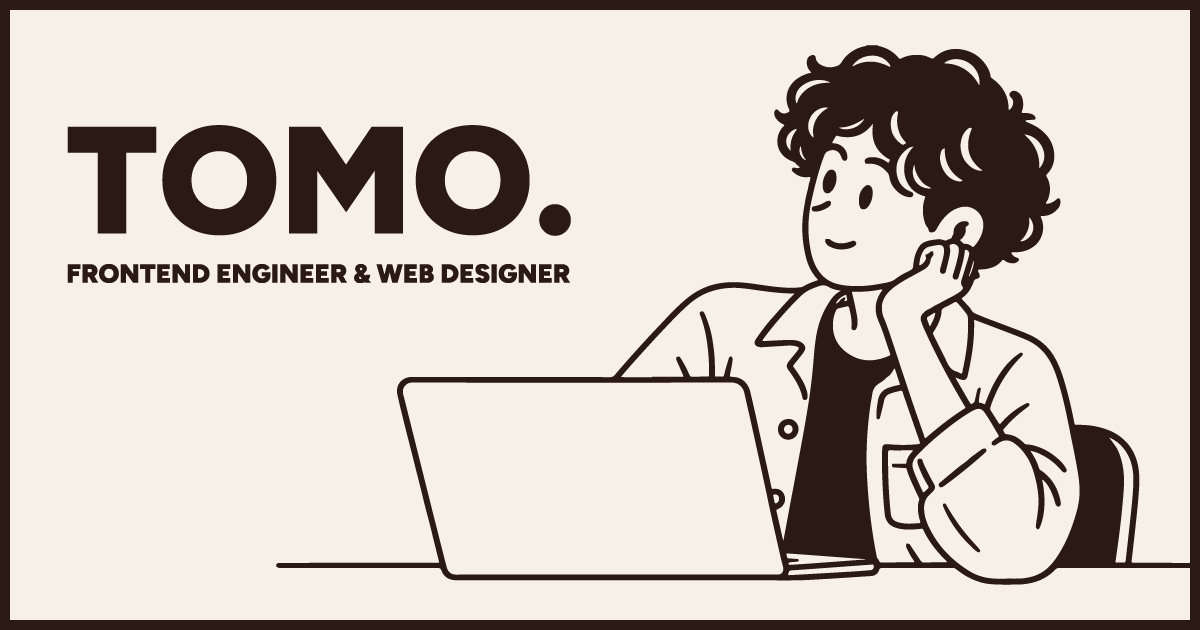
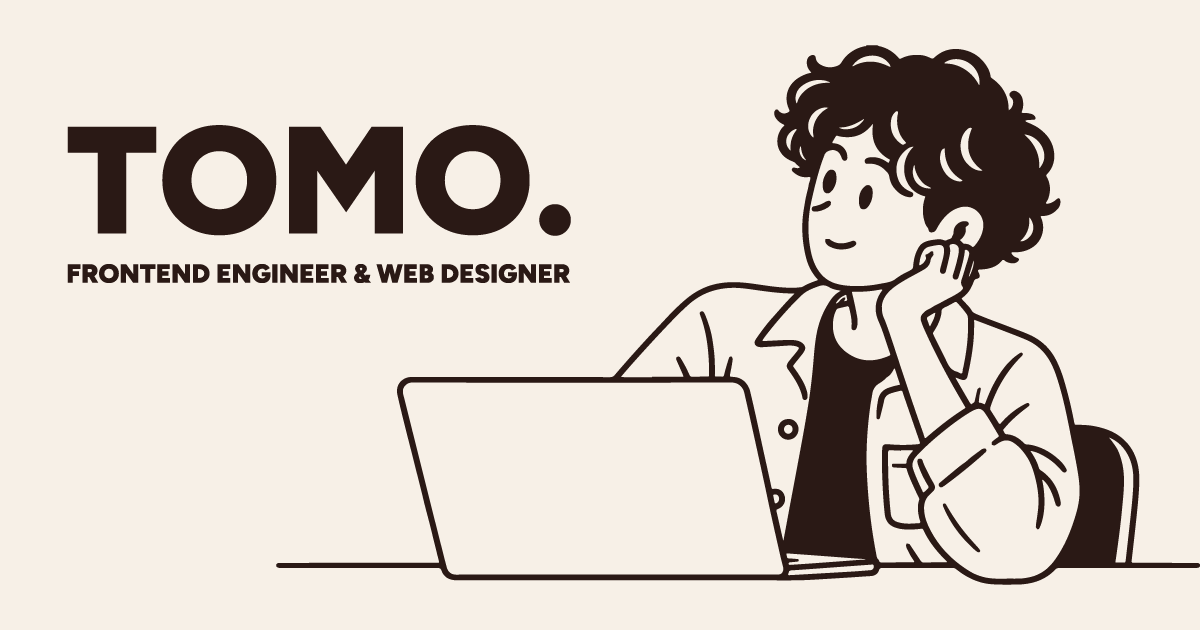
feature/design_2　ogp修正、絵文字許可

Changed region(s): [[0.0, 0.0, 1.0, 1.0]]

diff --git a/tests/og-image.test.ts b/tests/og-image.test.ts
@@ -1,10 +1,10 @@
 import { describe, expect, test } from "bun:test";
-import { getBlogOgImagePath, layoutOgTitle } from "../src/features/blog/og-image";
+import { BLOG_OG_RENDERER_VERSION, getBlogOgImagePath, layoutOgTitle } from "../src/features/blog/og-image";
 
 describe("article social images", () => {
   test("article updates change the image URL and path characters are encoded", () => {
     expect(getBlogOgImagePath("a/b", "2026-09-15T00:00:00Z"))
-      .toBe("/og/blog/a%2Fb?v=2026-09-15T00%3A00%3A00Z");
+      .toBe(`/og/blog/a%2Fb?v=2026-09-15T00%3A00%3A00Z&renderer=${BLOG_OG_RENDERER_VERSION}`);
     expect(getBlogOgImagePath("article", "first"))
       .not.toBe(getBlogOgImagePath("article", "second"));
   });
@@ -14,6 +14,15 @@ describe("article social images", () => {
     expect(lines).toHaveLength(2);
     expect(lines.some((line) => line.includes("タグ"))).toBe(true);
     expect(lines.some((line) => line.includes("デザイン"))).toBe(true);
+  });
+
+  test("emoji and joined emoji survive title wrapping", () => {
+    const title = "公開しました🎊 開発者👩🏽💻からのお知らせ🇯🇵 ❤";
+    const { lines } = layoutOgTitle(title);
+    expect(lines.join("").replaceAll(" ", "")).toBe(title.replaceAll(" ", ""));
+    for (const emoji of ["🎊", "👩🏽💻", "🇯🇵", "❤"]) {
+      expect(lines.some((line) => line.includes(emoji))).toBe(true);
+    }
   });
 
   test.each([

diff --git a/src/routes/(public)/og.blog.$slug.ts b/src/routes/(public)/og.blog.$slug.ts
@@ -2,6 +2,7 @@ import { createFileRoute } from "@tanstack/react-router";
 import { findMicroCmsPostSummaryById } from "@/features/blog/server/microcms.repository.server";
 import { renderBlogOgImage } from "@/features/blog/server/og-image.server";
 import { isBlogDataError } from "@/features/blog/server/blog-data.error";
+import { BLOG_OG_RENDERER_VERSION } from "@/features/blog/og-image";
 
 export const Route = createFileRoute("/(public)/og/blog/$slug")({
   server: {
@@ -13,7 +14,7 @@ export const Route = createFileRoute("/(public)/og/blog/$slug")({
           const post = await findMicroCmsPostSummaryById(params.slug);
           if (!post?.publishedAt) return new Response("Not found", { status: 404, headers: errorHeaders });
           const cacheUrl = new URL(request.url);
-          cacheUrl.search = new URLSearchParams({ v: post.updatedAt, renderer: "3" }).toString();
+          cacheUrl.search = new URLSearchParams({ v: post.updatedAt, renderer: BLOG_OG_RENDERER_VERSION }).toString();
           const key = new Request(cacheUrl);
           const cache = await caches.open("blog-og-images-v1");
           const cached = await cache.match(key);

diff --git a/src/features/blog/og-image.ts b/src/features/blog/og-image.ts
@@ -1,8 +1,9 @@
 export const BLOG_OG_WIDTH = 1200;
 export const BLOG_OG_HEIGHT = 630;
+export const BLOG_OG_RENDERER_VERSION = "4";
 
 export function getBlogOgImagePath(slug: string, updatedAt: string): string {
-  return `/og/blog/${encodeURIComponent(slug)}?v=${encodeURIComponent(updatedAt)}`;
+  return `/og/blog/${encodeURIComponent(slug)}?v=${encodeURIComponent(updatedAt)}&renderer=${BLOG_OG_RENDERER_VERSION}`;
 }
 
 // Conservative glyph widths leave room for proportional Latin fonts and punctuation.

diff --git a/src/features/blog/server/og-image.server.tsx b/src/features/blog/server/og-image.server.tsx
@@ -47,6 +47,7 @@ export async function renderBlogOgImage(title: string, request: Request): Promis
     {
       width: BLOG_OG_WIDTH,
       height: BLOG_OG_HEIGHT,
+      emoji: "twemoji",
       fonts: [
         { name: "Figtree", data: latin, weight: 700, style: "normal" },
         { name: "Noto Sans JP", data: japanese, weight: 700, style: "normal" },
